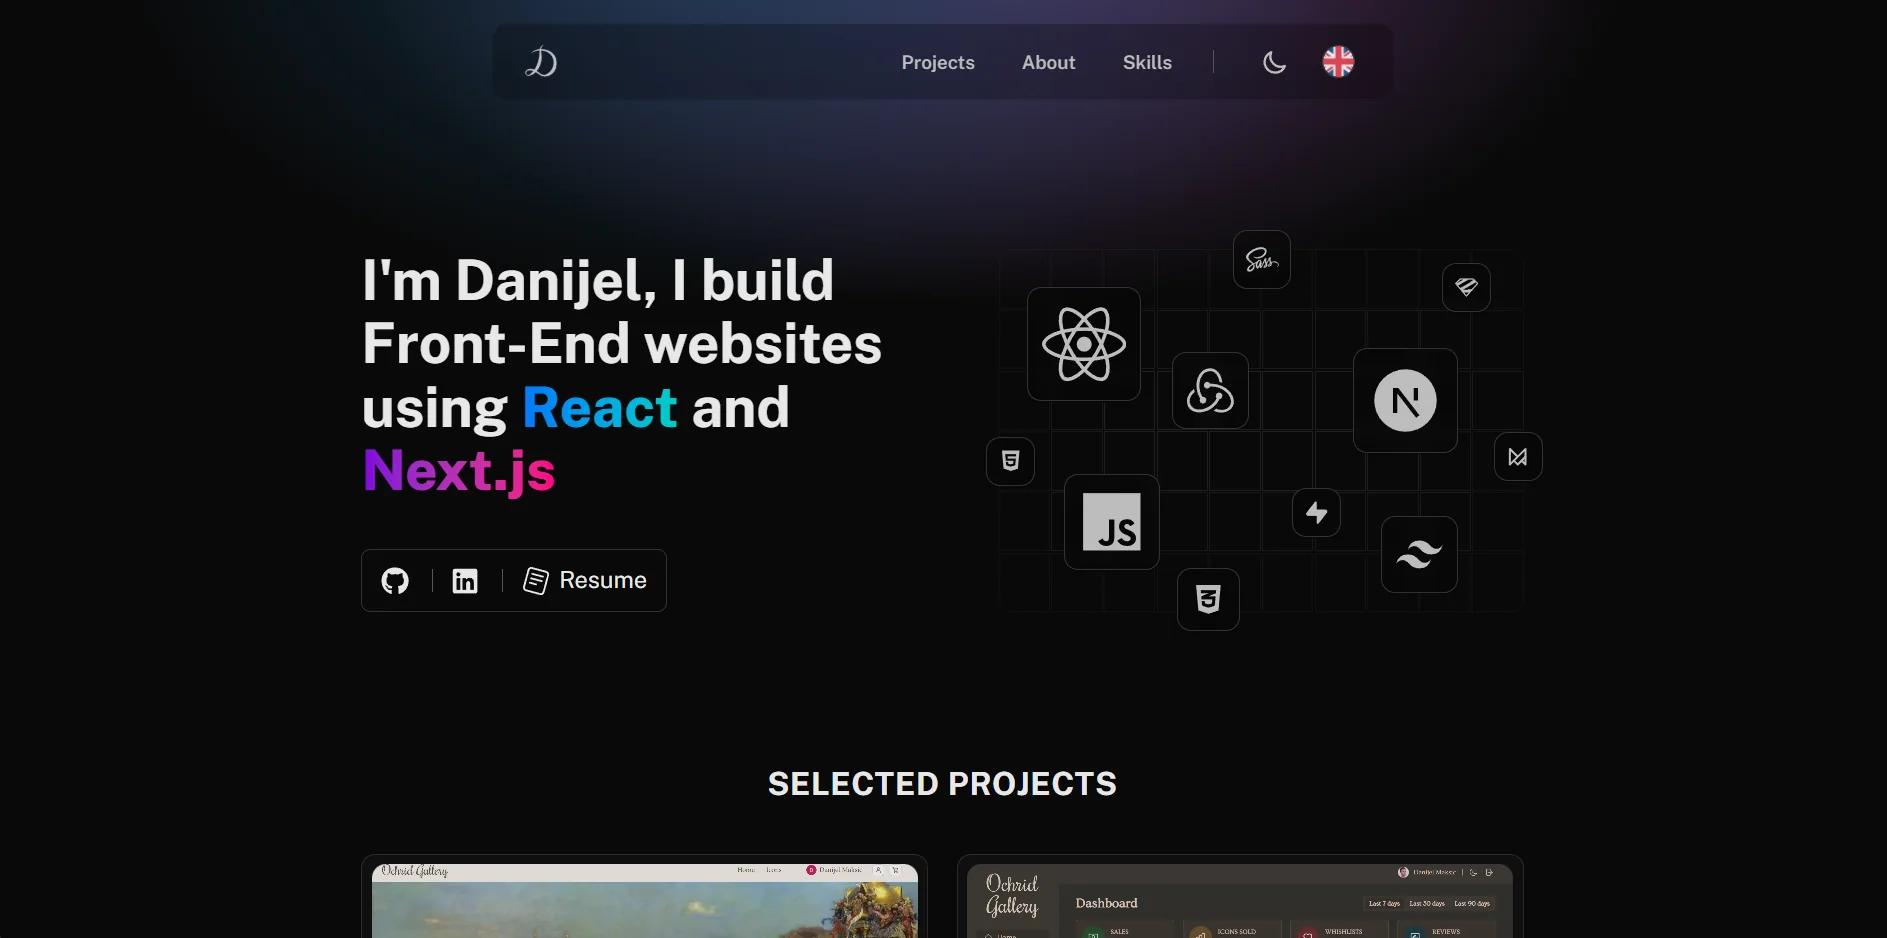
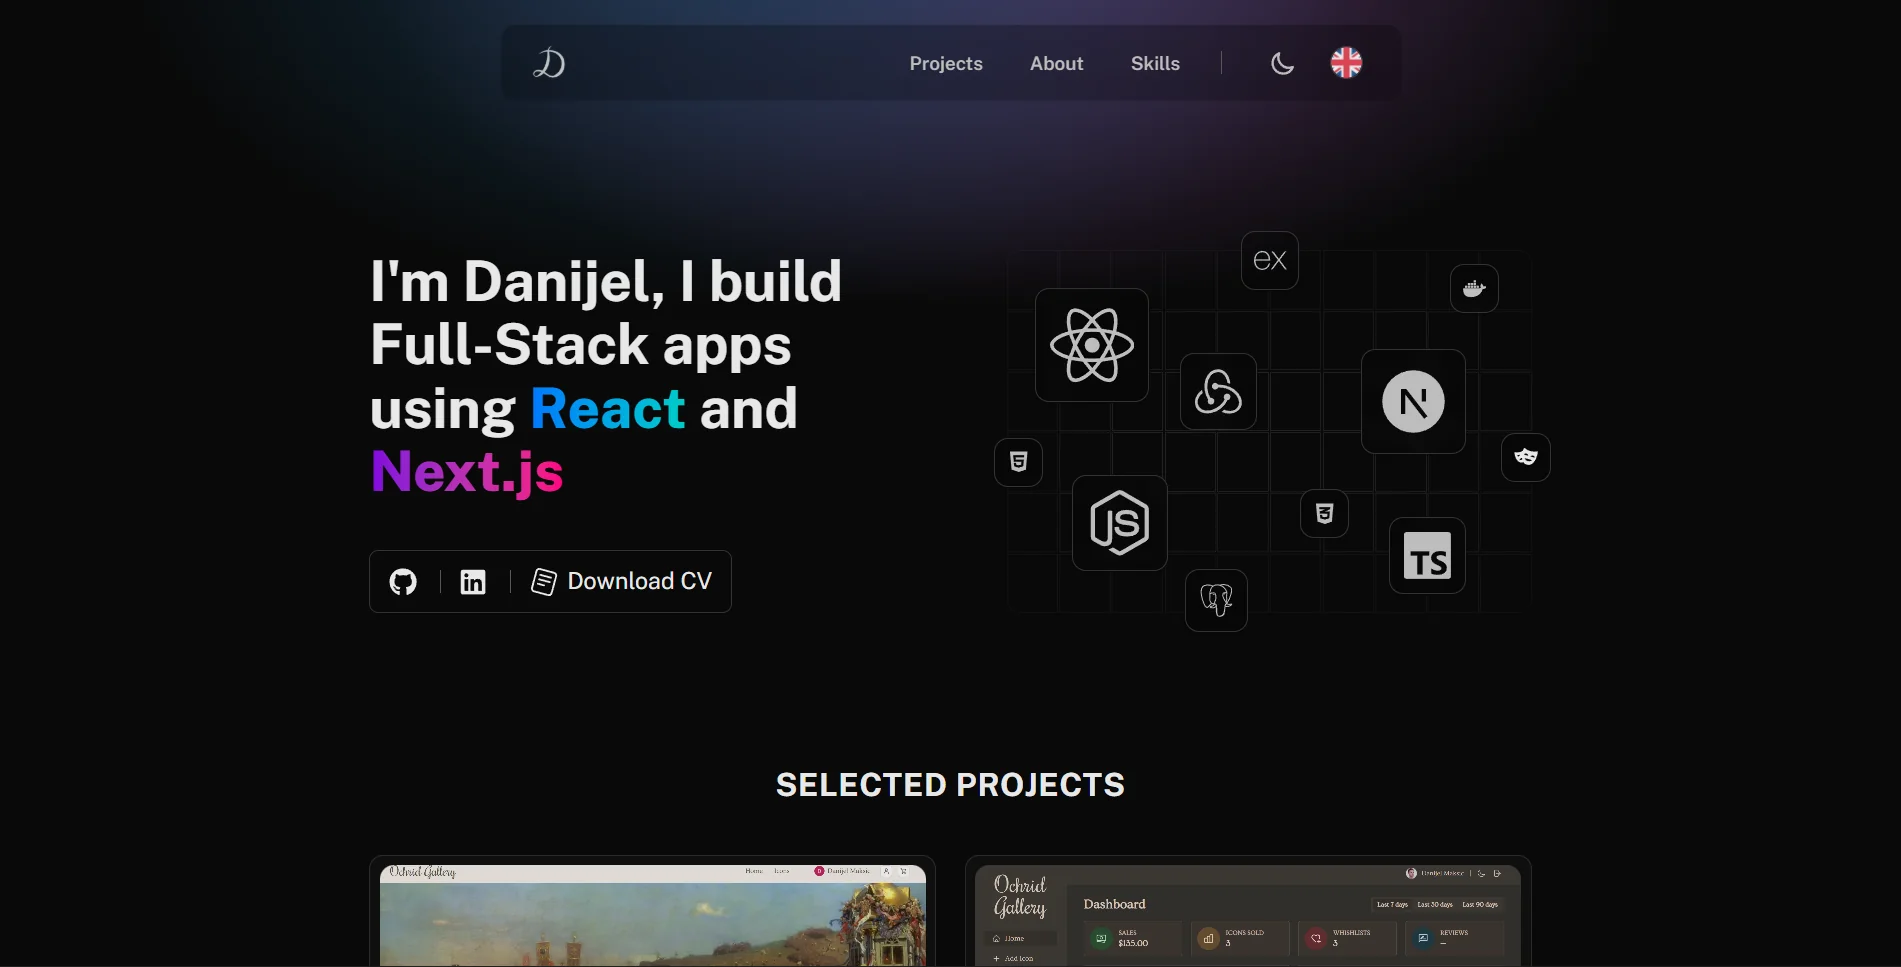
Update README

diff --git a/README.md b/README.md
@@ -1,12 +1,13 @@
 # Portfolio website
 
-My portfolio website showcasing various Front-End projects.
+My portfolio website showcasing various Full-Stack and Front-End projects.
 
 You can check out the [live demo](https://danijelmaksic.vercel.app/).
 
 <br/>
 
 Installation:
+
 ```
 npm i
 npm run dev
